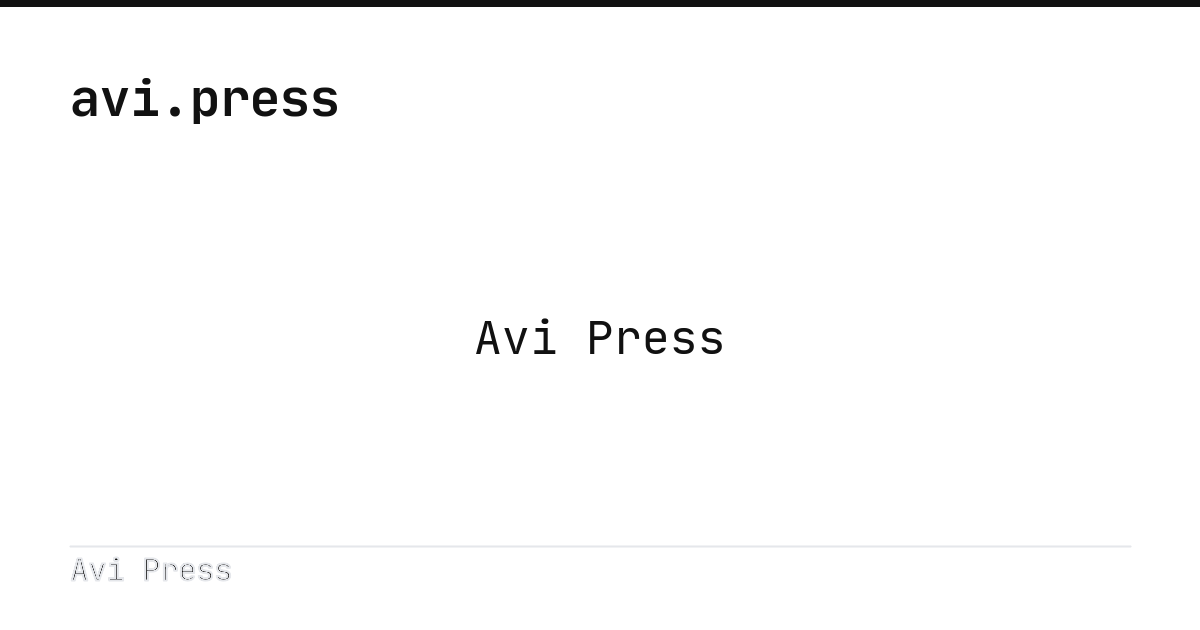
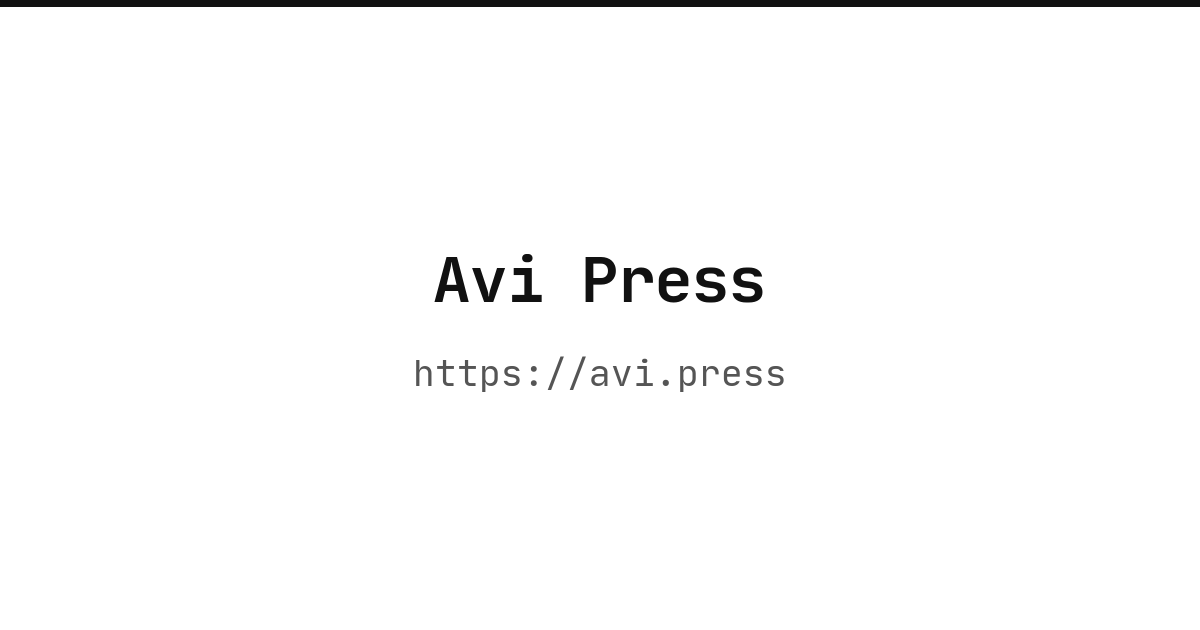
og: simplify homepage social image text

diff --git a/scripts/og_pipeline.py b/scripts/og_pipeline.py
@@ -42,27 +42,38 @@ def format_title(title: str) -> str:
     return "\n".join(wrapped)
 
 
-def run_magick(title: str, out_path: Path, post_date: str = ""):
+def run_magick(title: str, out_path: Path, post_date: str = "", *, homepage: bool = False):
     out_path.parent.mkdir(parents=True, exist_ok=True)
     title = format_title(title)
     magick_bin = shutil.which("magick") or shutil.which("convert")
     if not magick_bin:
         raise RuntimeError("Neither `magick` nor `convert` was found on PATH")
 
-    cmd = [
-        magick_bin, "-size", "1200x630", "xc:#ffffff",
-        "-fill", "#111111", "-draw", "rectangle 0,0 1200,6",
-        "-fill", "#111111", "-font", "JetBrains-Mono-Bold", "-pointsize", "50",
-        "-gravity", "northwest", "-annotate", "+70+66", "avi.press",
-        "-fill", "#111111", "-font", "JetBrains-Mono-Regular", "-pointsize", "46", "-gravity", "center",
-        "-interline-spacing", "16", "-annotate", "+0+22", title,
-        "-font", "JetBrains-Mono-Regular", "-pointsize", "24", "-fill", "#555555", "-gravity", "center",
-        "-annotate", "+0+176", post_date,
-        "-stroke", "#e5e7eb", "-strokewidth", "2", "-draw", "line 70,546 1130,546",
-        "-font", "JetBrains-Mono-Regular", "-pointsize", "30", "-fill", "#111111", "-gravity", "southwest",
-        "-annotate", "+70+42", "Avi Press",
-        str(out_path),
-    ]
+    if homepage:
+        cmd = [
+            magick_bin, "-size", "1200x630", "xc:#ffffff",
+            "-fill", "#111111", "-draw", "rectangle 0,0 1200,6",
+            "-fill", "#111111", "-font", "JetBrains-Mono-Bold", "-pointsize", "62", "-gravity", "center",
+            "-annotate", "+0-36", "Avi Press",
+            "-fill", "#555555", "-font", "JetBrains-Mono-Regular", "-pointsize", "36", "-gravity", "center",
+            "-annotate", "+0+58", "https://avi.press",
+            str(out_path),
+        ]
+    else:
+        cmd = [
+            magick_bin, "-size", "1200x630", "xc:#ffffff",
+            "-fill", "#111111", "-draw", "rectangle 0,0 1200,6",
+            "-fill", "#111111", "-font", "JetBrains-Mono-Bold", "-pointsize", "50",
+            "-gravity", "northwest", "-annotate", "+70+66", "avi.press",
+            "-fill", "#111111", "-font", "JetBrains-Mono-Regular", "-pointsize", "46", "-gravity", "center",
+            "-interline-spacing", "16", "-annotate", "+0+22", title,
+            "-font", "JetBrains-Mono-Regular", "-pointsize", "24", "-fill", "#555555", "-gravity", "center",
+            "-annotate", "+0+176", post_date,
+            "-stroke", "#e5e7eb", "-strokewidth", "2", "-draw", "line 70,546 1130,546",
+            "-font", "JetBrains-Mono-Regular", "-pointsize", "30", "-fill", "#111111", "-gravity", "southwest",
+            "-annotate", "+70+42", "Avi Press",
+            str(out_path),
+        ]
     subprocess.run(cmd, check=True)
 
 
@@ -118,7 +129,7 @@ def update_org_head(path: Path, block: str):
 
 def run_all():
     org_posts = sorted(POSTS_DIR.glob("*.org"))
-    run_magick("Avi Press", OG_DIR / "site.png")
+    run_magick("Avi Press", OG_DIR / "site.png", homepage=True)
 
     # homepage metadata
     home_block = build_meta_block("Avi Press", f"{SITE_URL}/", f"{SITE_URL}/images/og/site.png", is_home=True)
